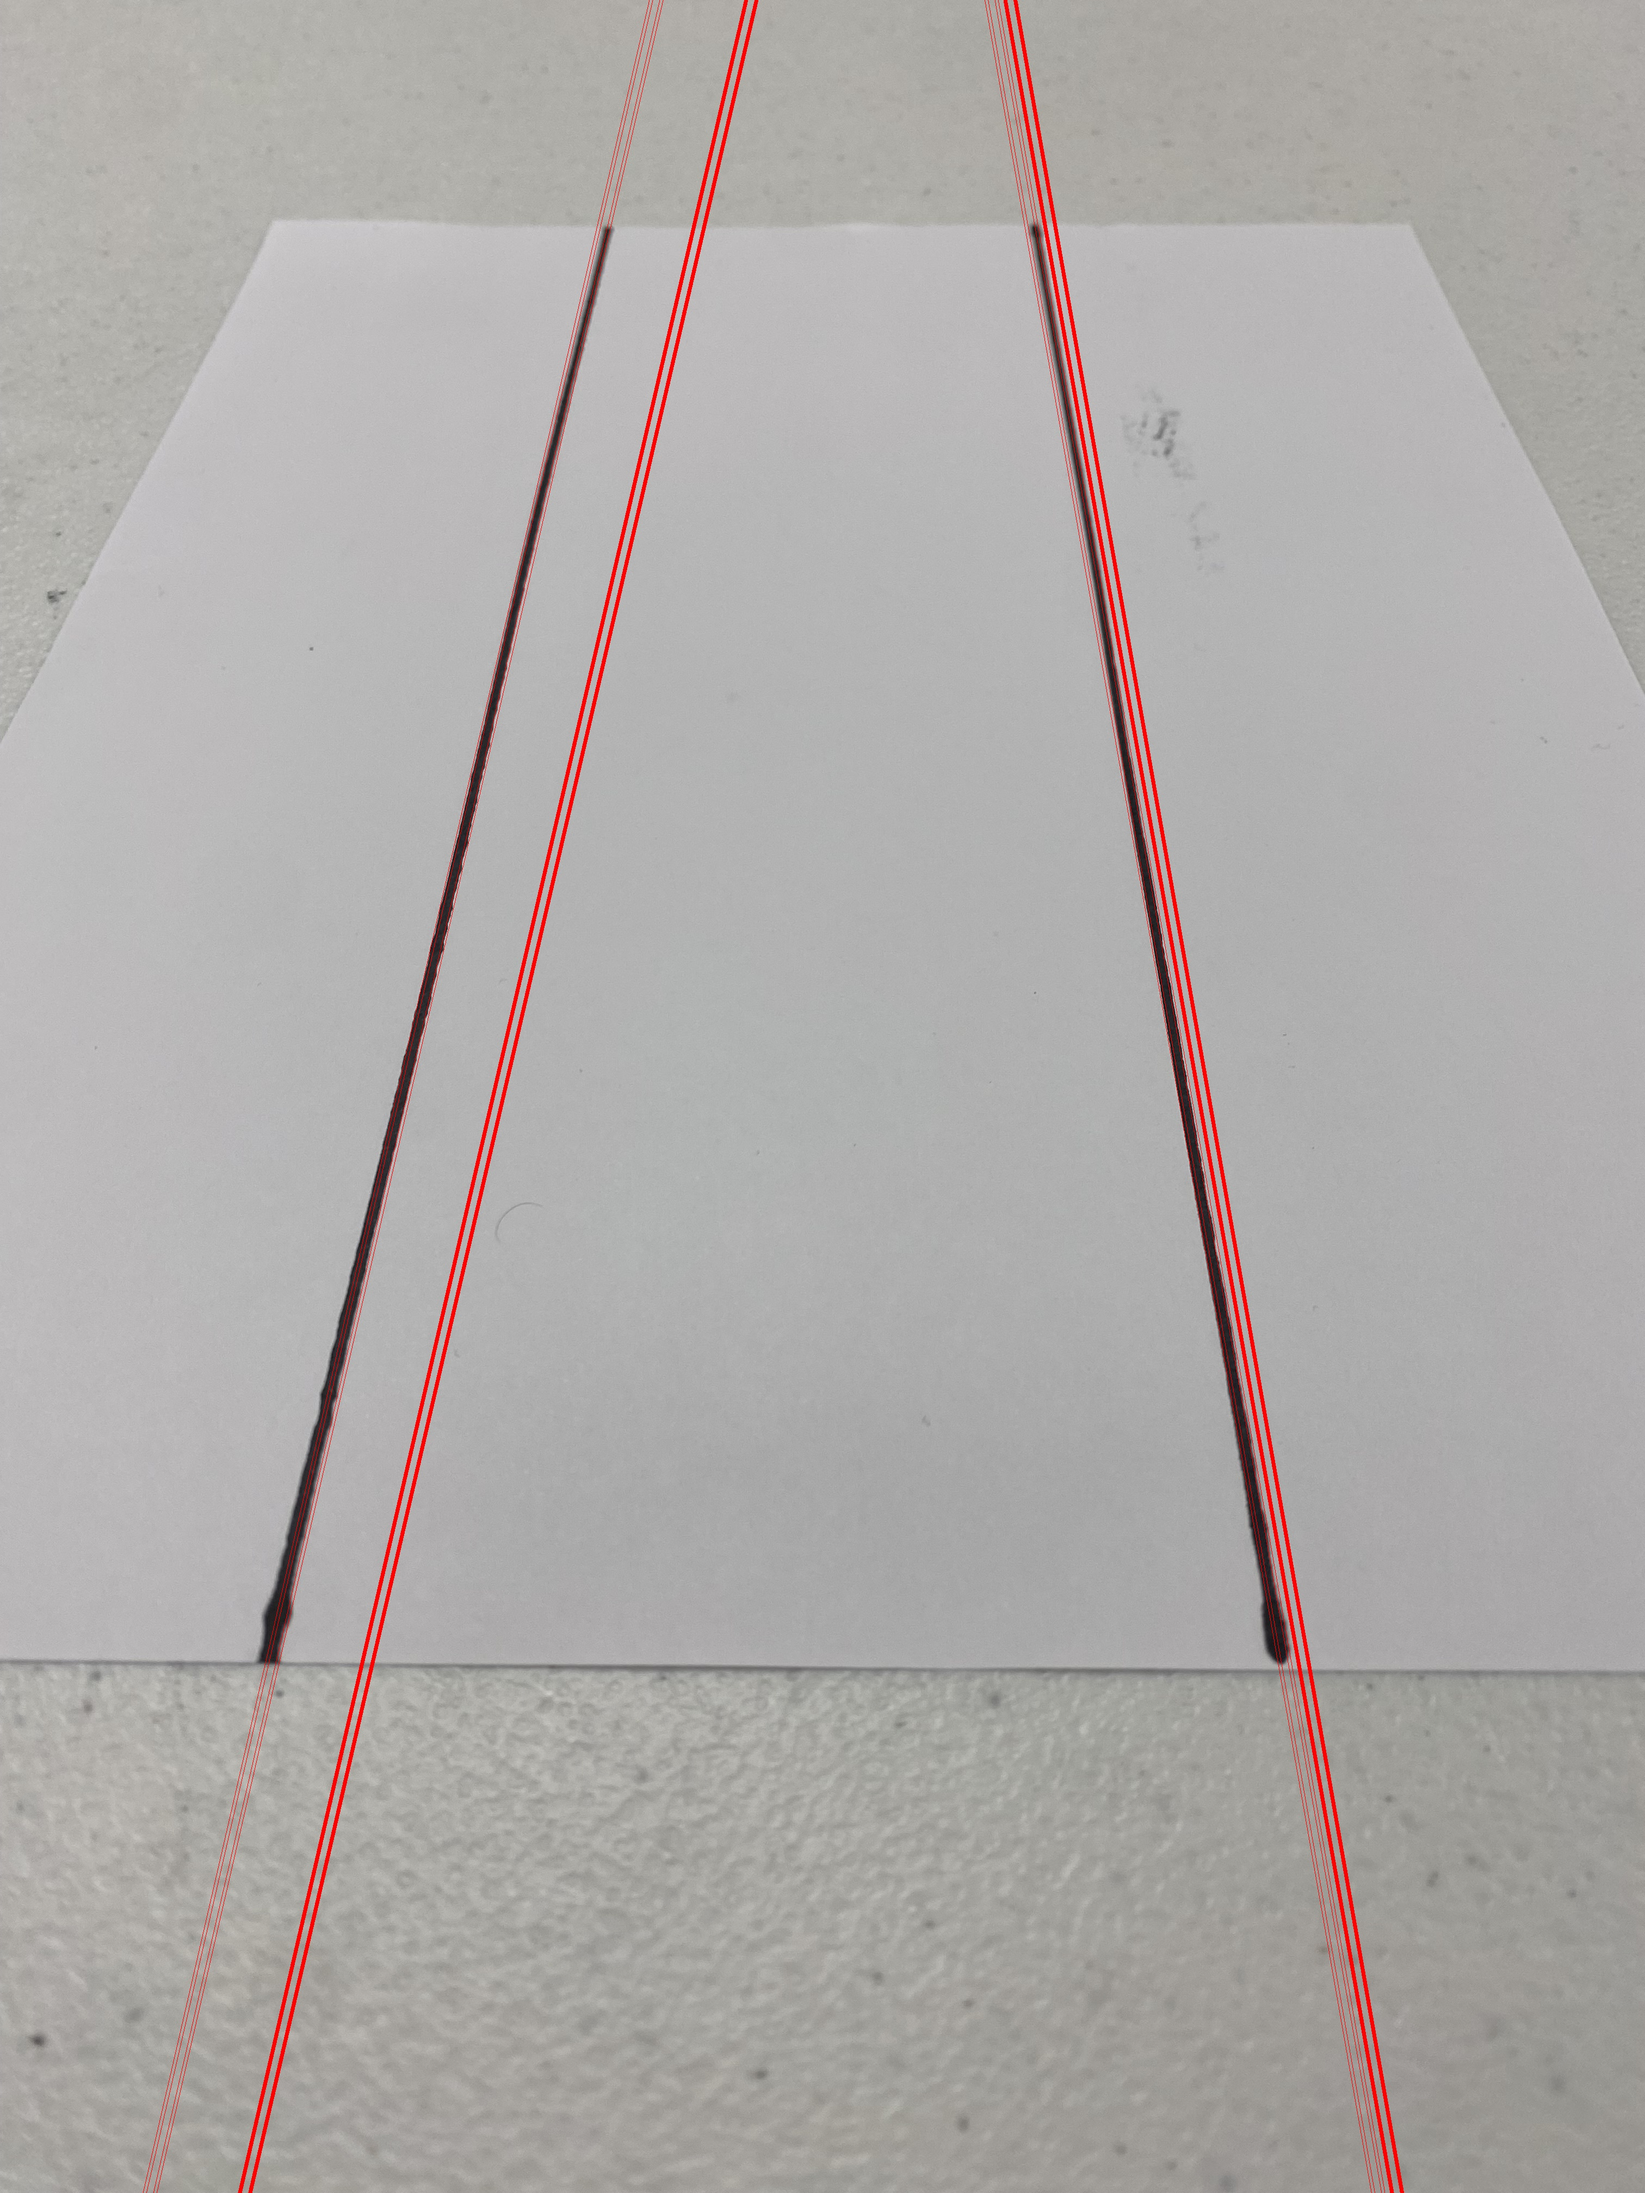
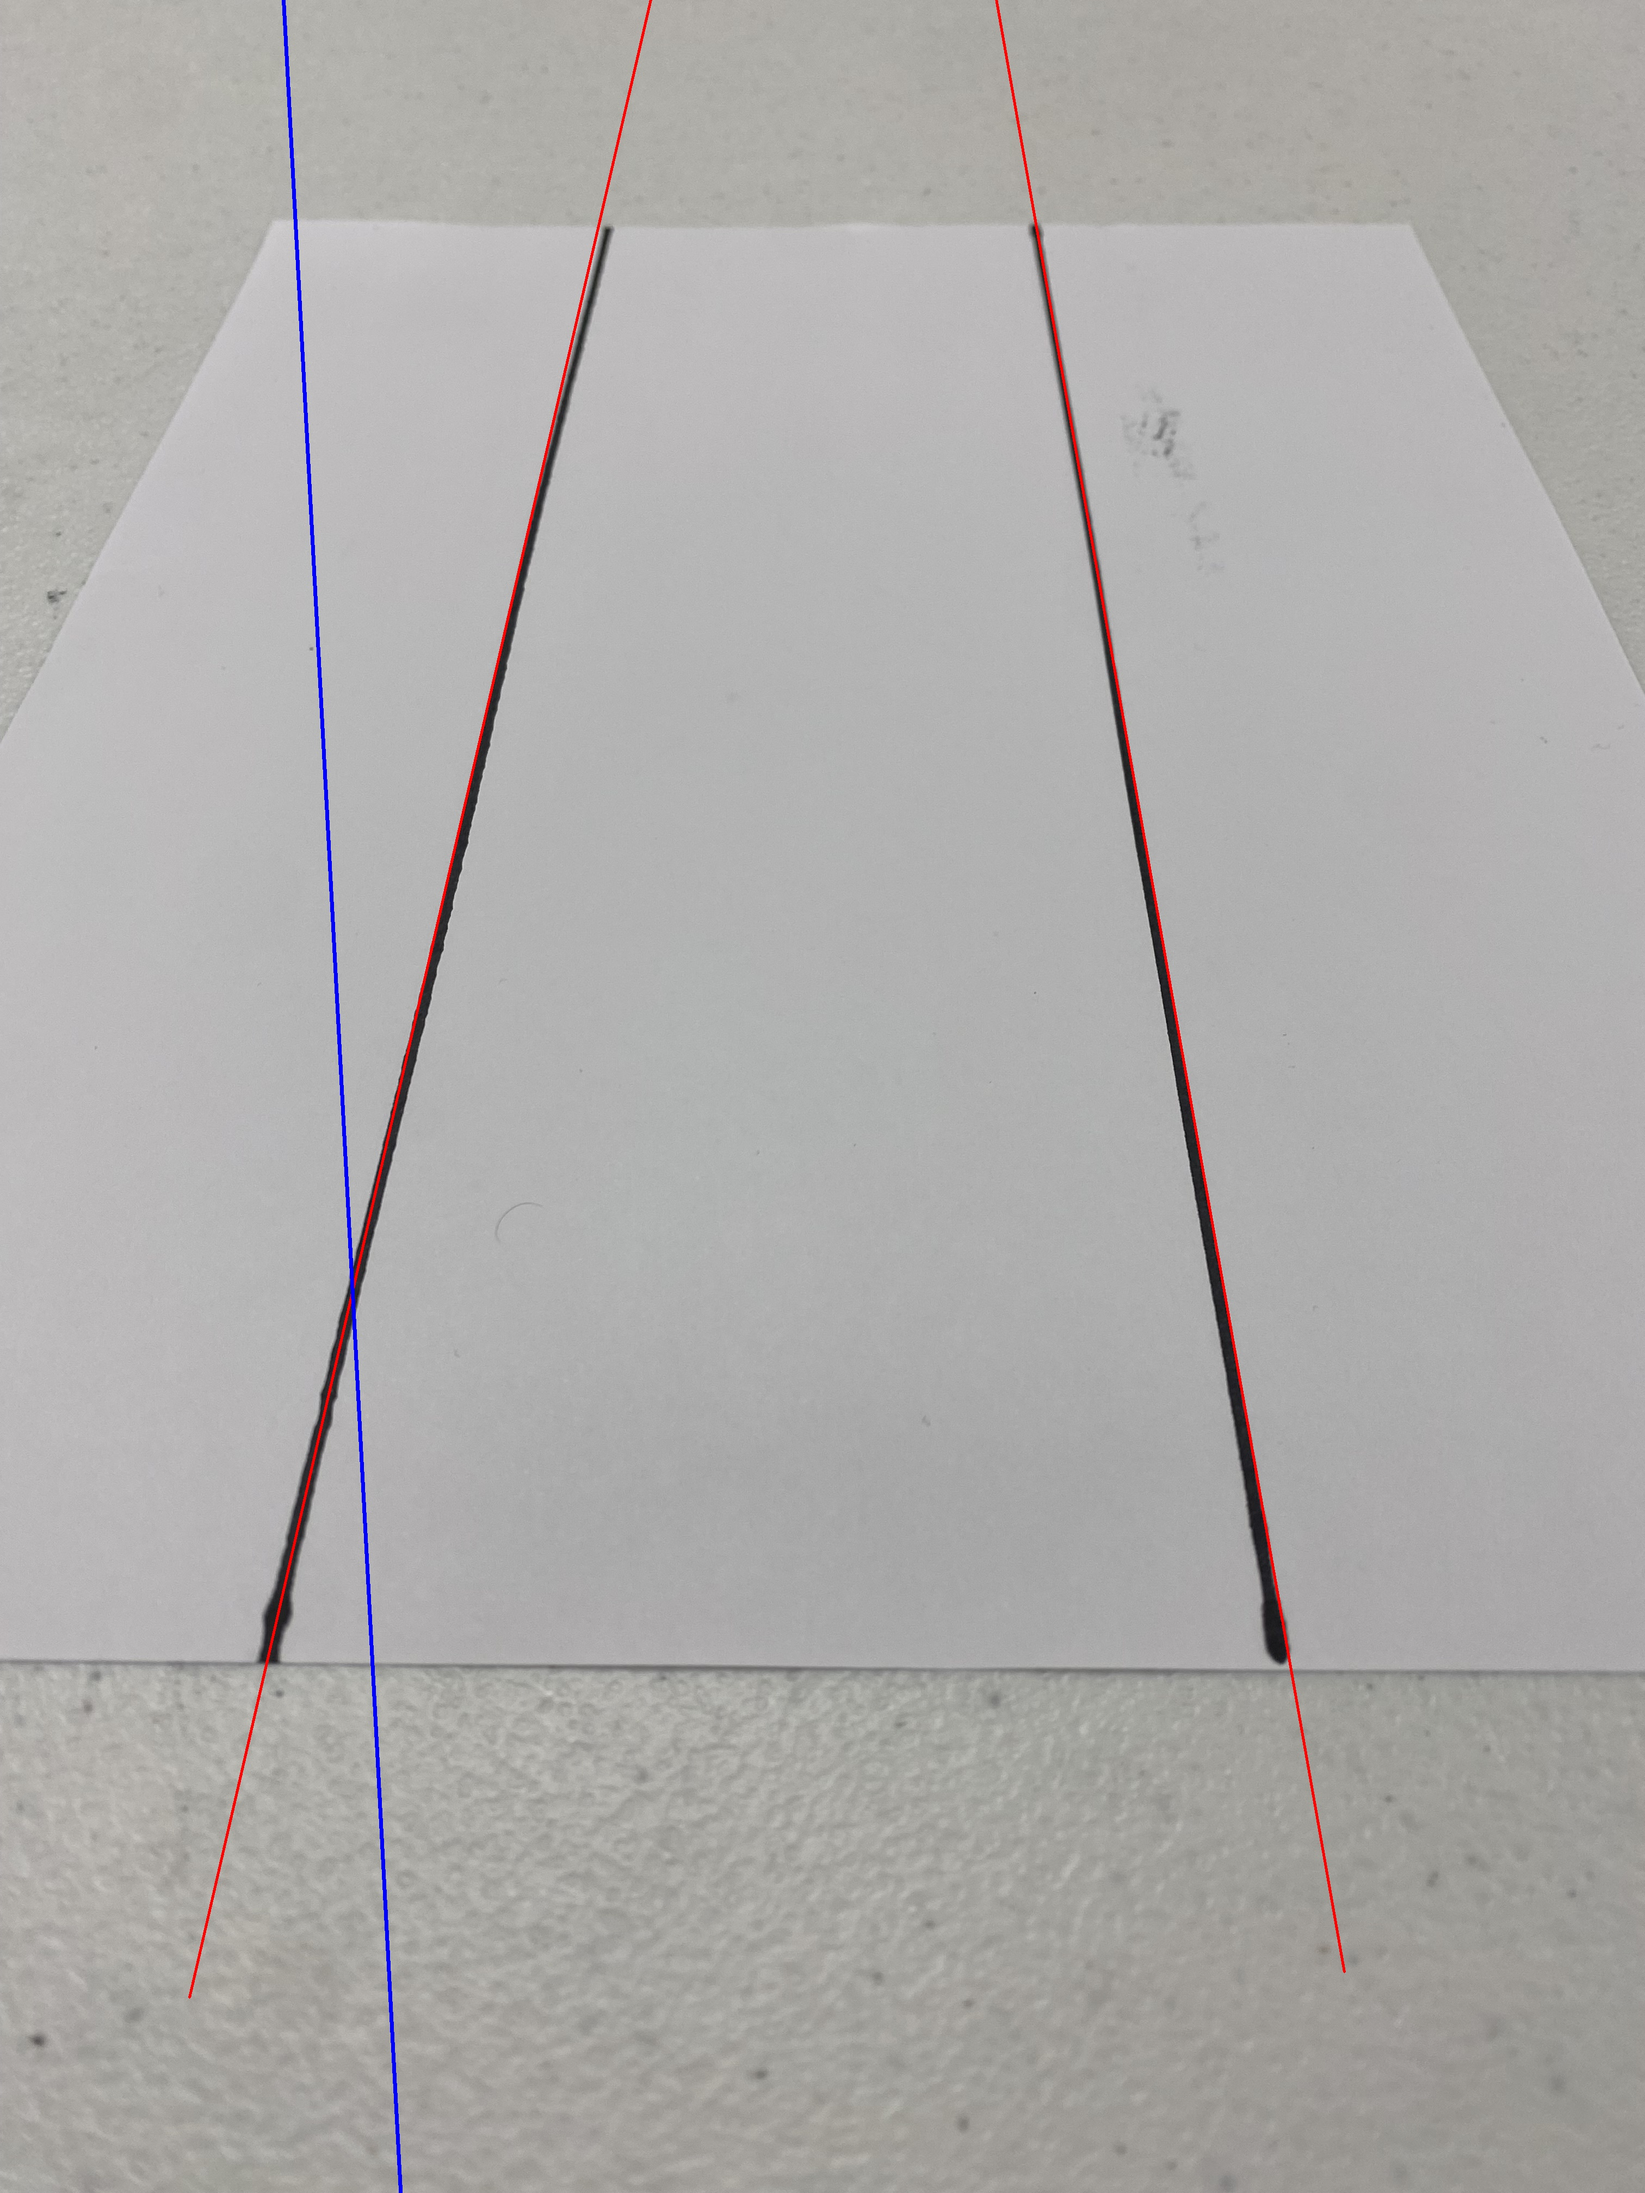
hi

diff --git a/laslinias.py b/laslinias.py
@@ -1,15 +1,19 @@
 import cv2
 import numpy as np
+import math
+from numpy import ones,vstack
+from numpy.linalg import lstsq
 
 
 img = cv2.imread('IMG-4654 (1).jpg')
 
 onegray = cv2.cvtColor(img, cv2.COLOR_BGR2GRAY)
 edges = cv2.Canny(onegray, 300, 400, apertureSize=3)
-lines = cv2.HoughLines(edges, 0.9, np.pi/ 180, 200)
+lines = cv2.HoughLines(edges, 0.6, np.pi/ 180, 200)
 
-far = []
-sum = 0
+pointvalues= {}
+xproduct = 0
+xproductr= 0
 
 for r_theta in lines:
     arr = np.array(r_theta[0], dtype=np.float64)
@@ -18,14 +22,33 @@ for r_theta in lines:
     b = np.sin(theta)
     x0 = a * r
     y0 = b * r
-    x1 = int(x0 + 10000000 * (-b))
-    y1 = int(y0 + 10000000 * (a))
-    x2 = int(x0 - 10000000 * (-b))
-    y2 = int(y0 - 10000000 * (a))
-    cv2.line(img, (x1, y1), (x2, y2), (0, 0, 255), 5)
+    x1 = int(x0 + 3500 * (-b))
+    y1 = int(y0 + 3500 * (a))
+    x2 = int(x0 - 4000 * (-b))
+    y2 = int(y0 - 4000 * (a))
 
-#mid = int(sum/len(far))
-#mid = cv2.line(img, (mid, 180), (mid, 1000), (0, 0, 255), 2)
+    #finds slope
+    slope = [(x1, x1), (x2,y2)]
+    x,y =zip(*slope)
+    A = vstack([x, ones(len(x))]).T
+    n, b = lstsq(A, y)[0]
+
+    #calculates frst point
+    fp = (0-b) / n
+    xproduct += fp
+
+    # calculates second point
+    sp = (5000-b) / n
+    xproductr += sp
+
+    pointvalues[fp] = sp
+
+    cv2.line(img, (x1, y1), (x2, y2), (0, 0, 255), 3)
+
+midfp = xproduct/len(pointvalues)
+midsp = xproductr/len(pointvalues)
+
+cv2.line(img, (int(midfp), 0), (int(midsp),  5000), (255, 0, 0), 5)
 
 cv2.imwrite('linesDetected.jpg', img)
 
